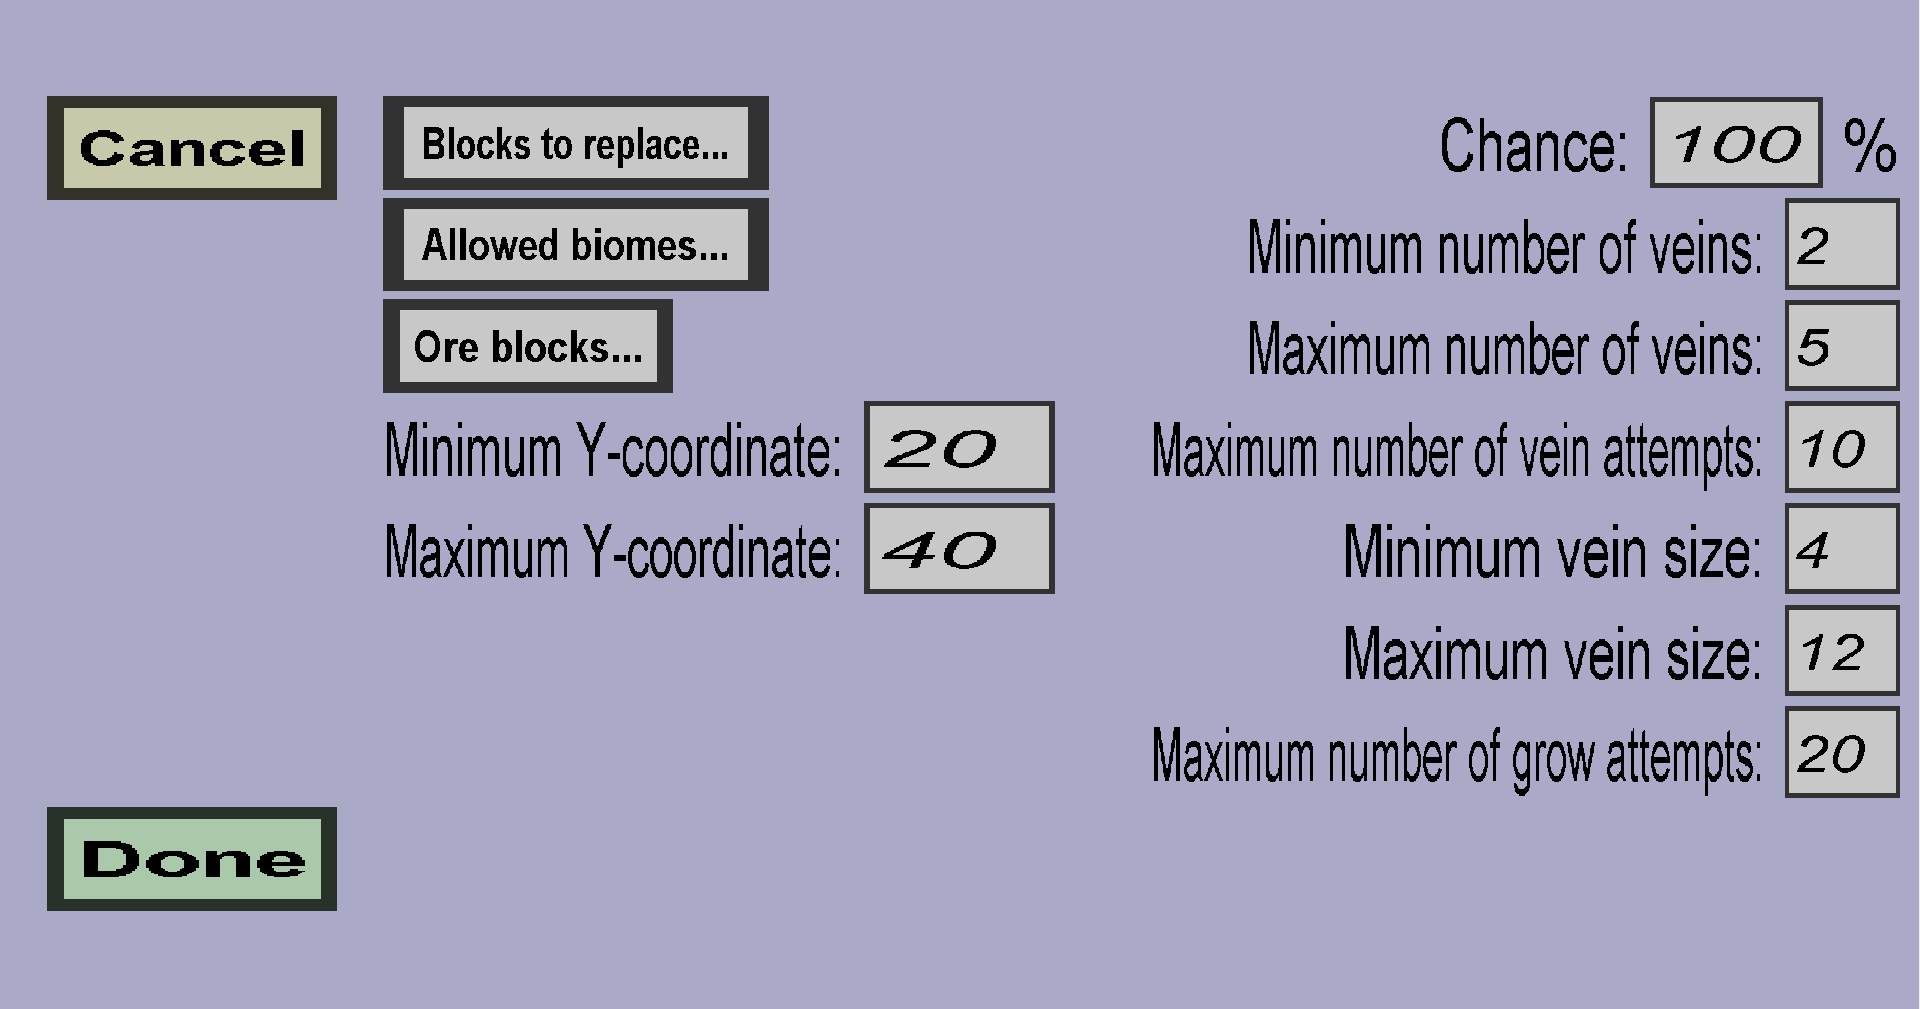
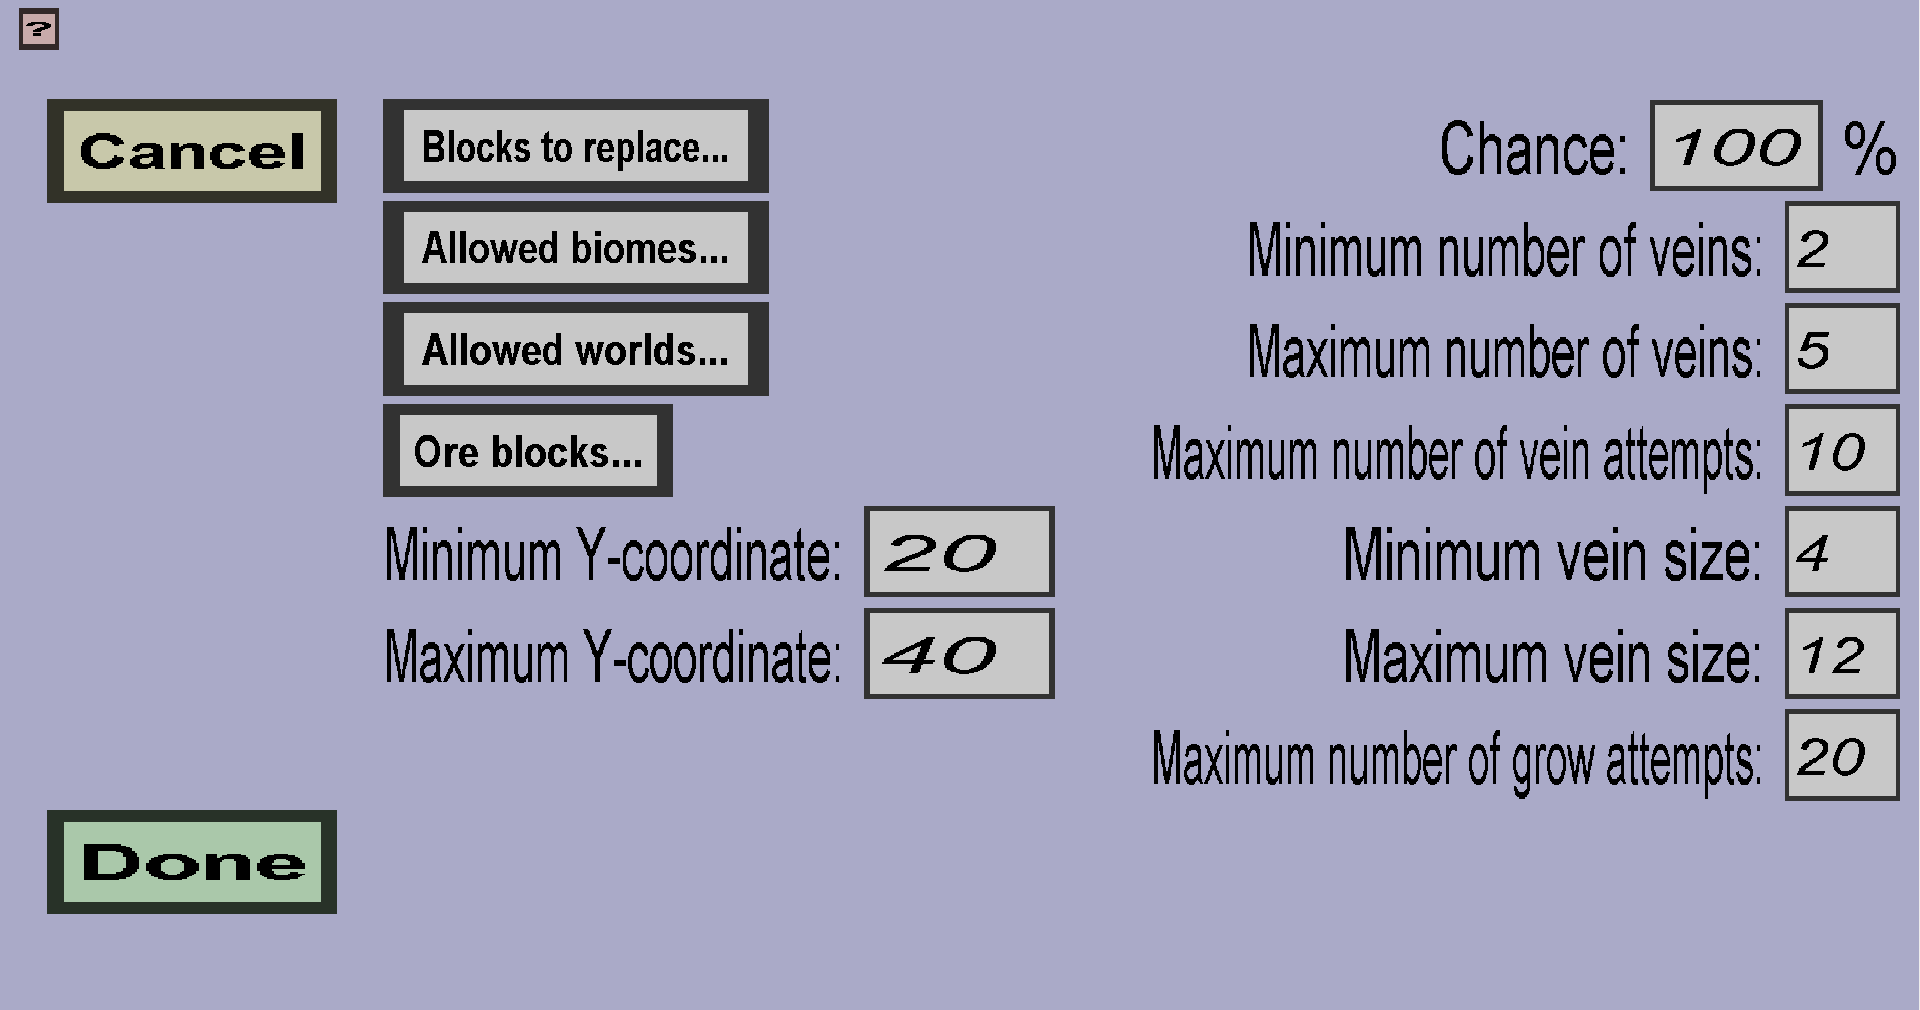
Document the required world names of ore and tree generators in custom items 12

diff --git a/custom items/editor documentation/edit menu/worldgen/allowed worlds.html b/custom items/editor documentation/edit menu/worldgen/allowed worlds.html
@@ -1,0 +1,28 @@
+<!DOCTYPE html>
+<html>
+    <head>
+        <meta charset="UTF-8" />
+        <title>Allowed worlds menu</title>
+    </head>
+    <body>
+        <p>
+            The allowed worlds menu can be used to specify in which worlds custom ore veins and custom trees
+            can be generated. By default, all worlds are allowed, and it should look like this:
+        </p>
+        <img src="allowed worlds all.png" width="50%" />
+        <p>
+            By clicking on the <i>Add</i> button, you can create new text fields in which you can type the
+            names of the allowed worlds. If you add at least 1 text field, the ores/trees can only be generated
+            in a world with one of the specified names. For instance, if you only want them to be generated in
+            the default overworld (which is normally called just "world"), you should do this:
+        </p>
+        <img src="allowed worlds limited.png" width="50%" />
+        <h3>World names</h3>
+        <p>
+            By default, the name of the overworld is "world", the name of the nether is "world_nether", and the name
+            of The End is "world_the_end". If you add more worlds to your server (for instance using plug-ins such
+            as Multiverse), you typically need to choose a name for that world, which you can type in the
+            text fields here.
+        </p>
+    </body>
+</html>

diff --git a/custom items/editor documentation/edit menu/worldgen/tree/edit.html b/custom items/editor documentation/edit menu/worldgen/tree/edit.html
@@ -27,6 +27,11 @@
             tree will be in one of the allowed biomes, but the leaves may be placed in another biome if the log is
             very close to another biome.
         </p>
+        <h3>Allowed worlds</h3>
+        <p>
+            The worlds in which the tree can be spawned. By default, the tree can be spawned in all worlds
+            (at least, the worlds that have the right biomes and terrain).
+        </p>
         <h3>Allowed terrain</h3>
         <p>
             The blocks on which the tree can be spawned. Note 1: when using a tree whose log is wider than 1 block,

diff --git a/custom items/editor documentation/edit menu/worldgen/ore/edit.html b/custom items/editor documentation/edit menu/worldgen/ore/edit.html
@@ -26,6 +26,10 @@
             The biomes in which the <i>Ore blocks</i> can be generated. Veins can't be started in forbidden biomes, nor
             can they grow into forbidden biomes.
         </p>
+        <h3>Allowed worlds</h3>
+        <p>
+            The worlds in which the <i>Ore blocks</i> can be generated. By default, they can be generated in all worlds.
+        </p>
         <h3>Ore blocks</h3>
         <p>
             The blocks by which the <i>Blocks to replace</i> should be replaced. For instance, vanilla ore blocks are
